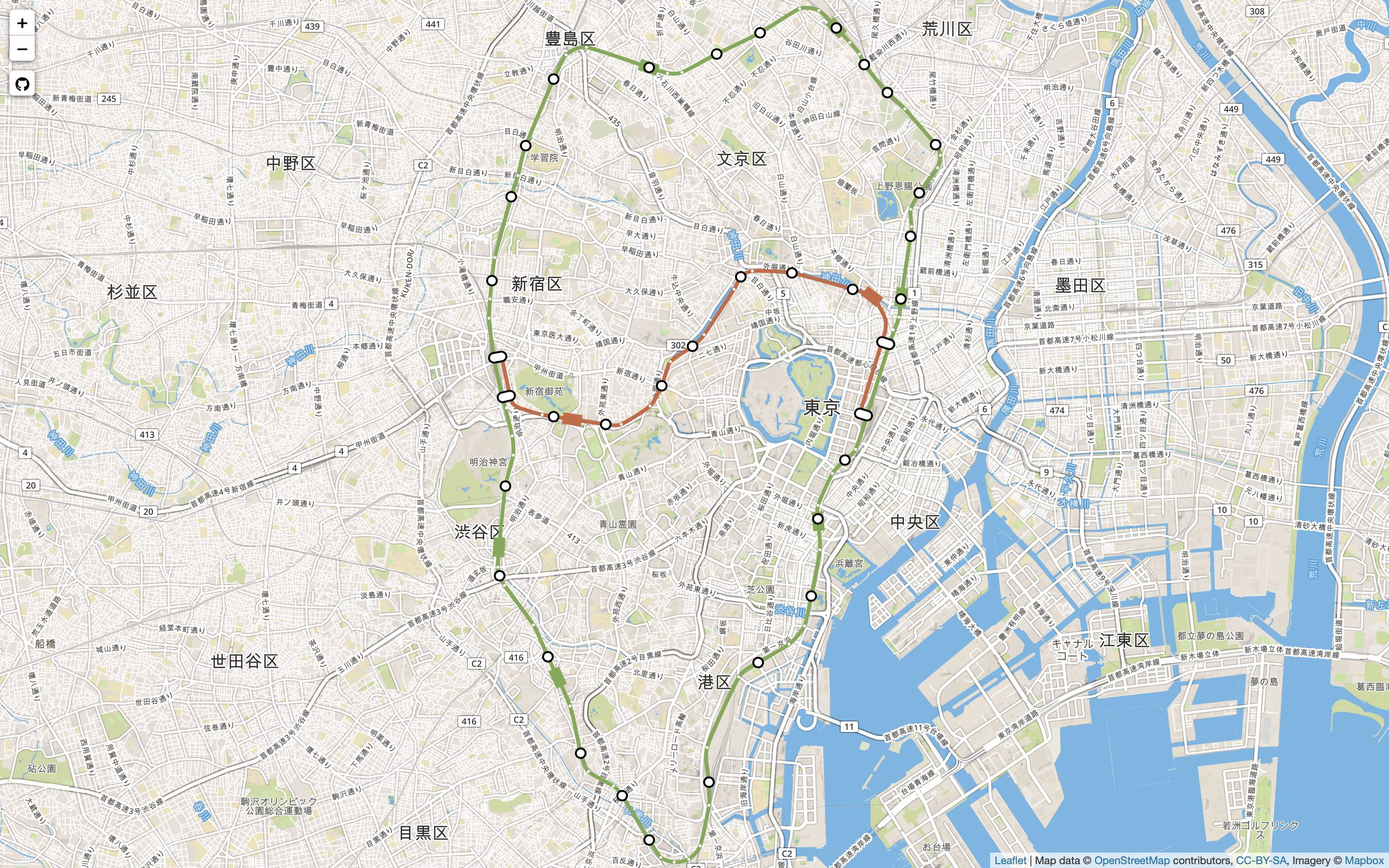
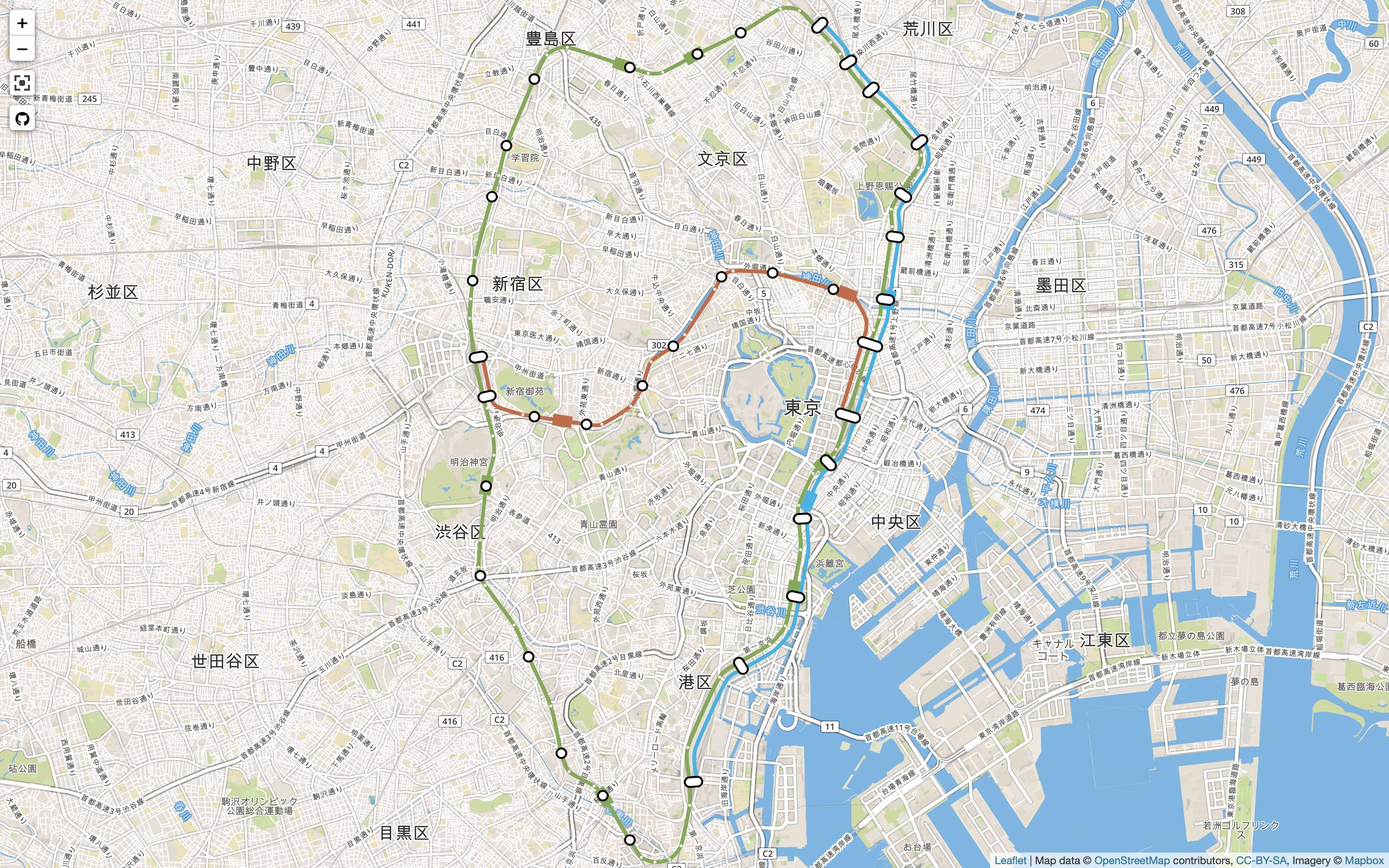
Add keihin-tohoku line

diff --git a/js/main.js b/js/main.js
@@ -76,7 +76,7 @@ Promise.all([
 
 	transition(g.selectAll('.car'));
 
-	map.on('moveend', update);
+	map.on('zoomend', update);
 
 	// For development
 	map.on('mousemove', function(e) {
@@ -218,6 +218,7 @@ Promise.all([
 			line.stations.forEach(function(station, i, stations) {
 				var length = getLengthAtLatLng(line.path, stationLookup[station.name].latLng, true);
 				station.offset = length / totalLength;
+				// console.log(station.name, getPointAtLengthWithRotation(g.select('.' + line.name + '.line').node(), length, totalLength).angle)
 			});
 		});
 

diff --git a/style.css b/style.css
@@ -17,6 +17,10 @@ body {
 	stroke: #CA6840;
 	fill: #CA6840;
 }
+.keihintohoku {
+	stroke: #00B2E5;
+	fill: #00B2E5;
+}
 .line {
 	stroke-width: 4;
 	fill: none;
